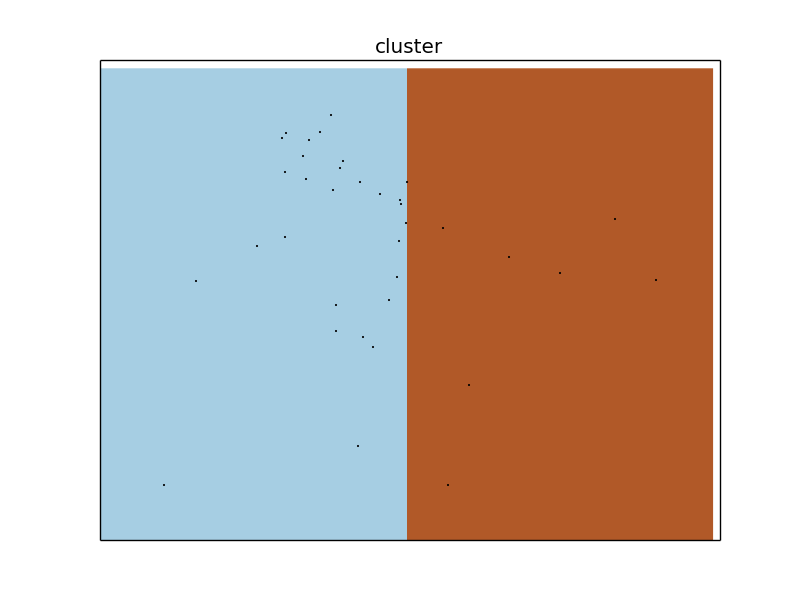
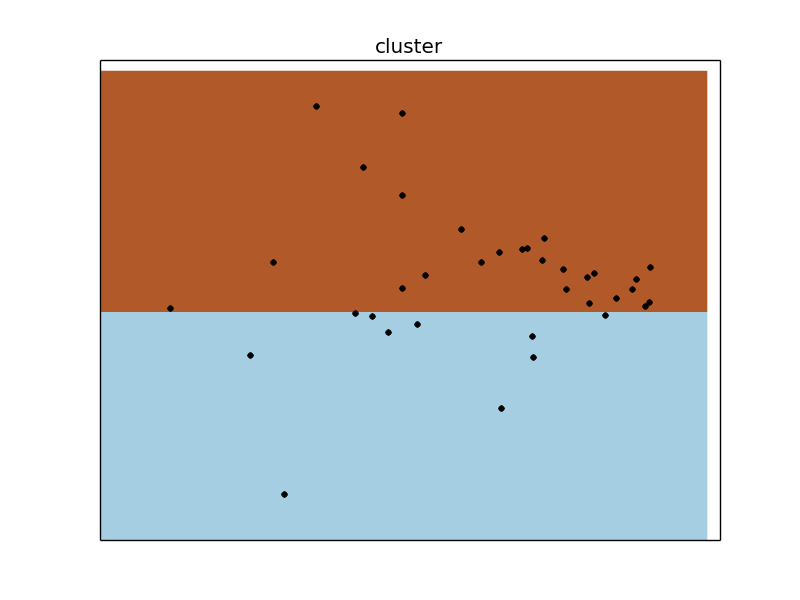
minor modifications to  clustering and visualizations

diff --git a/predict/routeClassifier.py b/predict/routeClassifier.py
@@ -22,45 +22,38 @@ def getDataFrame(path, filename):
 
 
 if __name__ == "__main__":
-	PATH = '../predict/output'
-	df = getDataFrame(PATH, "stations.csv")
-	stationFrame = df.groupby('station').agg({'Avg Arrival Diff': np.mean}, 'count')
-	stationCount = df.groupby('station').agg('count')
-	stationFrame['counts'] = np.log(stationCount['station'])
+	PATH = '../data/mergedData'
+	df = getDataFrame(PATH, "For_Jim.csv")
+	routeFrame = df.groupby('Route').agg({'Avg Arrival Diff': np.mean}, 'count')
+	routeCount = df.groupby('Route').agg('count')
+	routeFrame['counts'] = np.log(routeCount['Route'])
 
 	
 	colors = np.array([x for x in 'bgrcmykbgrcmykbgrcmykbgrcmyk'])
 	colors = np.hstack([colors] * 20)
 	
-	stationFrameScaled = scale(stationFrame)
+	routeFrameScaled = scale(routeFrame)
 	
 	spectral = SpectralClustering(n_clusters=2, eigen_solver='arpack', affinity="rbf")
-	fit = spectral.fit_predict(stationFrameScaled)
-	stationFrame['predictedClass'] = fit
+	fit = spectral.fit_predict(routeFrameScaled)
+	routeFrame['predictedClass'] = fit
 	
-	print(stationFrame.index.tolist())
-	labels = stationFrame.index.tolist()
+	print(routeFrame)
 	fig = plt.figure()
-	plt.scatter(stationFrame['Avg Arrival Diff'],stationFrame['counts'], color = colors[fit].tolist(), s=50)
-	for label, x, y in zip(labels, stationFrame['Avg Arrival Diff'],stationFrame['counts']):
-		plt.annotate(
-        label, fontsize = 7,
-        xy = (x, y), xytext = (-10, 10),
-        textcoords = 'offset points', ha = 'right', va = 'bottom',
-        bbox = dict(boxstyle = 'round,pad=0.5', fc = 'yellow', alpha = 0.5),
-        arrowprops = dict(arrowstyle = '->', connectionstyle = 'arc3,rad=0'))
-	plt.title('The Workhorse Bus Stops of Pasadena ARTS \n - Spectral Clustering in Two Dimensions -' )
+	plt.scatter(routeFrame['Avg Arrival Diff'],routeFrame['counts'], color = colors[fit].tolist(), s=50)
+	
+	plt.title('The Workhorse Routes of Pasadena ARTS \n - Spectral Clustering in Two Dimensions -' )
 	plt.xlabel("Average Delay in minutes")
 	plt.ylabel("Logarithm of total passenger count")
-	plt.savefig('station.png')
+	plt.savefig('routeCluster.png')
 	
-	print("Valuable Bus Stops: \n")
-	print(stationFrame[stationFrame['predictedClass'] == 1])
+	print("Valuable Routes: \n")
+	print(routeFrame[routeFrame['predictedClass'] == 0])
 	
 	
 	# pca visualization, not as sexy as one above
 	pcaDecomp =  PCA(n_components=2)
-	reduced_data = pcaDecomp.fit_transform(stationFrame)
+	reduced_data = pcaDecomp.fit_transform(routeFrame)
 	spectral.fit(reduced_data)
 	print(reduced_data)
 	h = 0.3
@@ -77,4 +70,4 @@ if __name__ == "__main__":
 	plt.ylim(y_min, y_max)
 	plt.xticks(())
 	plt.yticks(())
-	plt.savefig("SpectralClusterStops.png")
+	plt.savefig("SpectralClusterBus.png")
